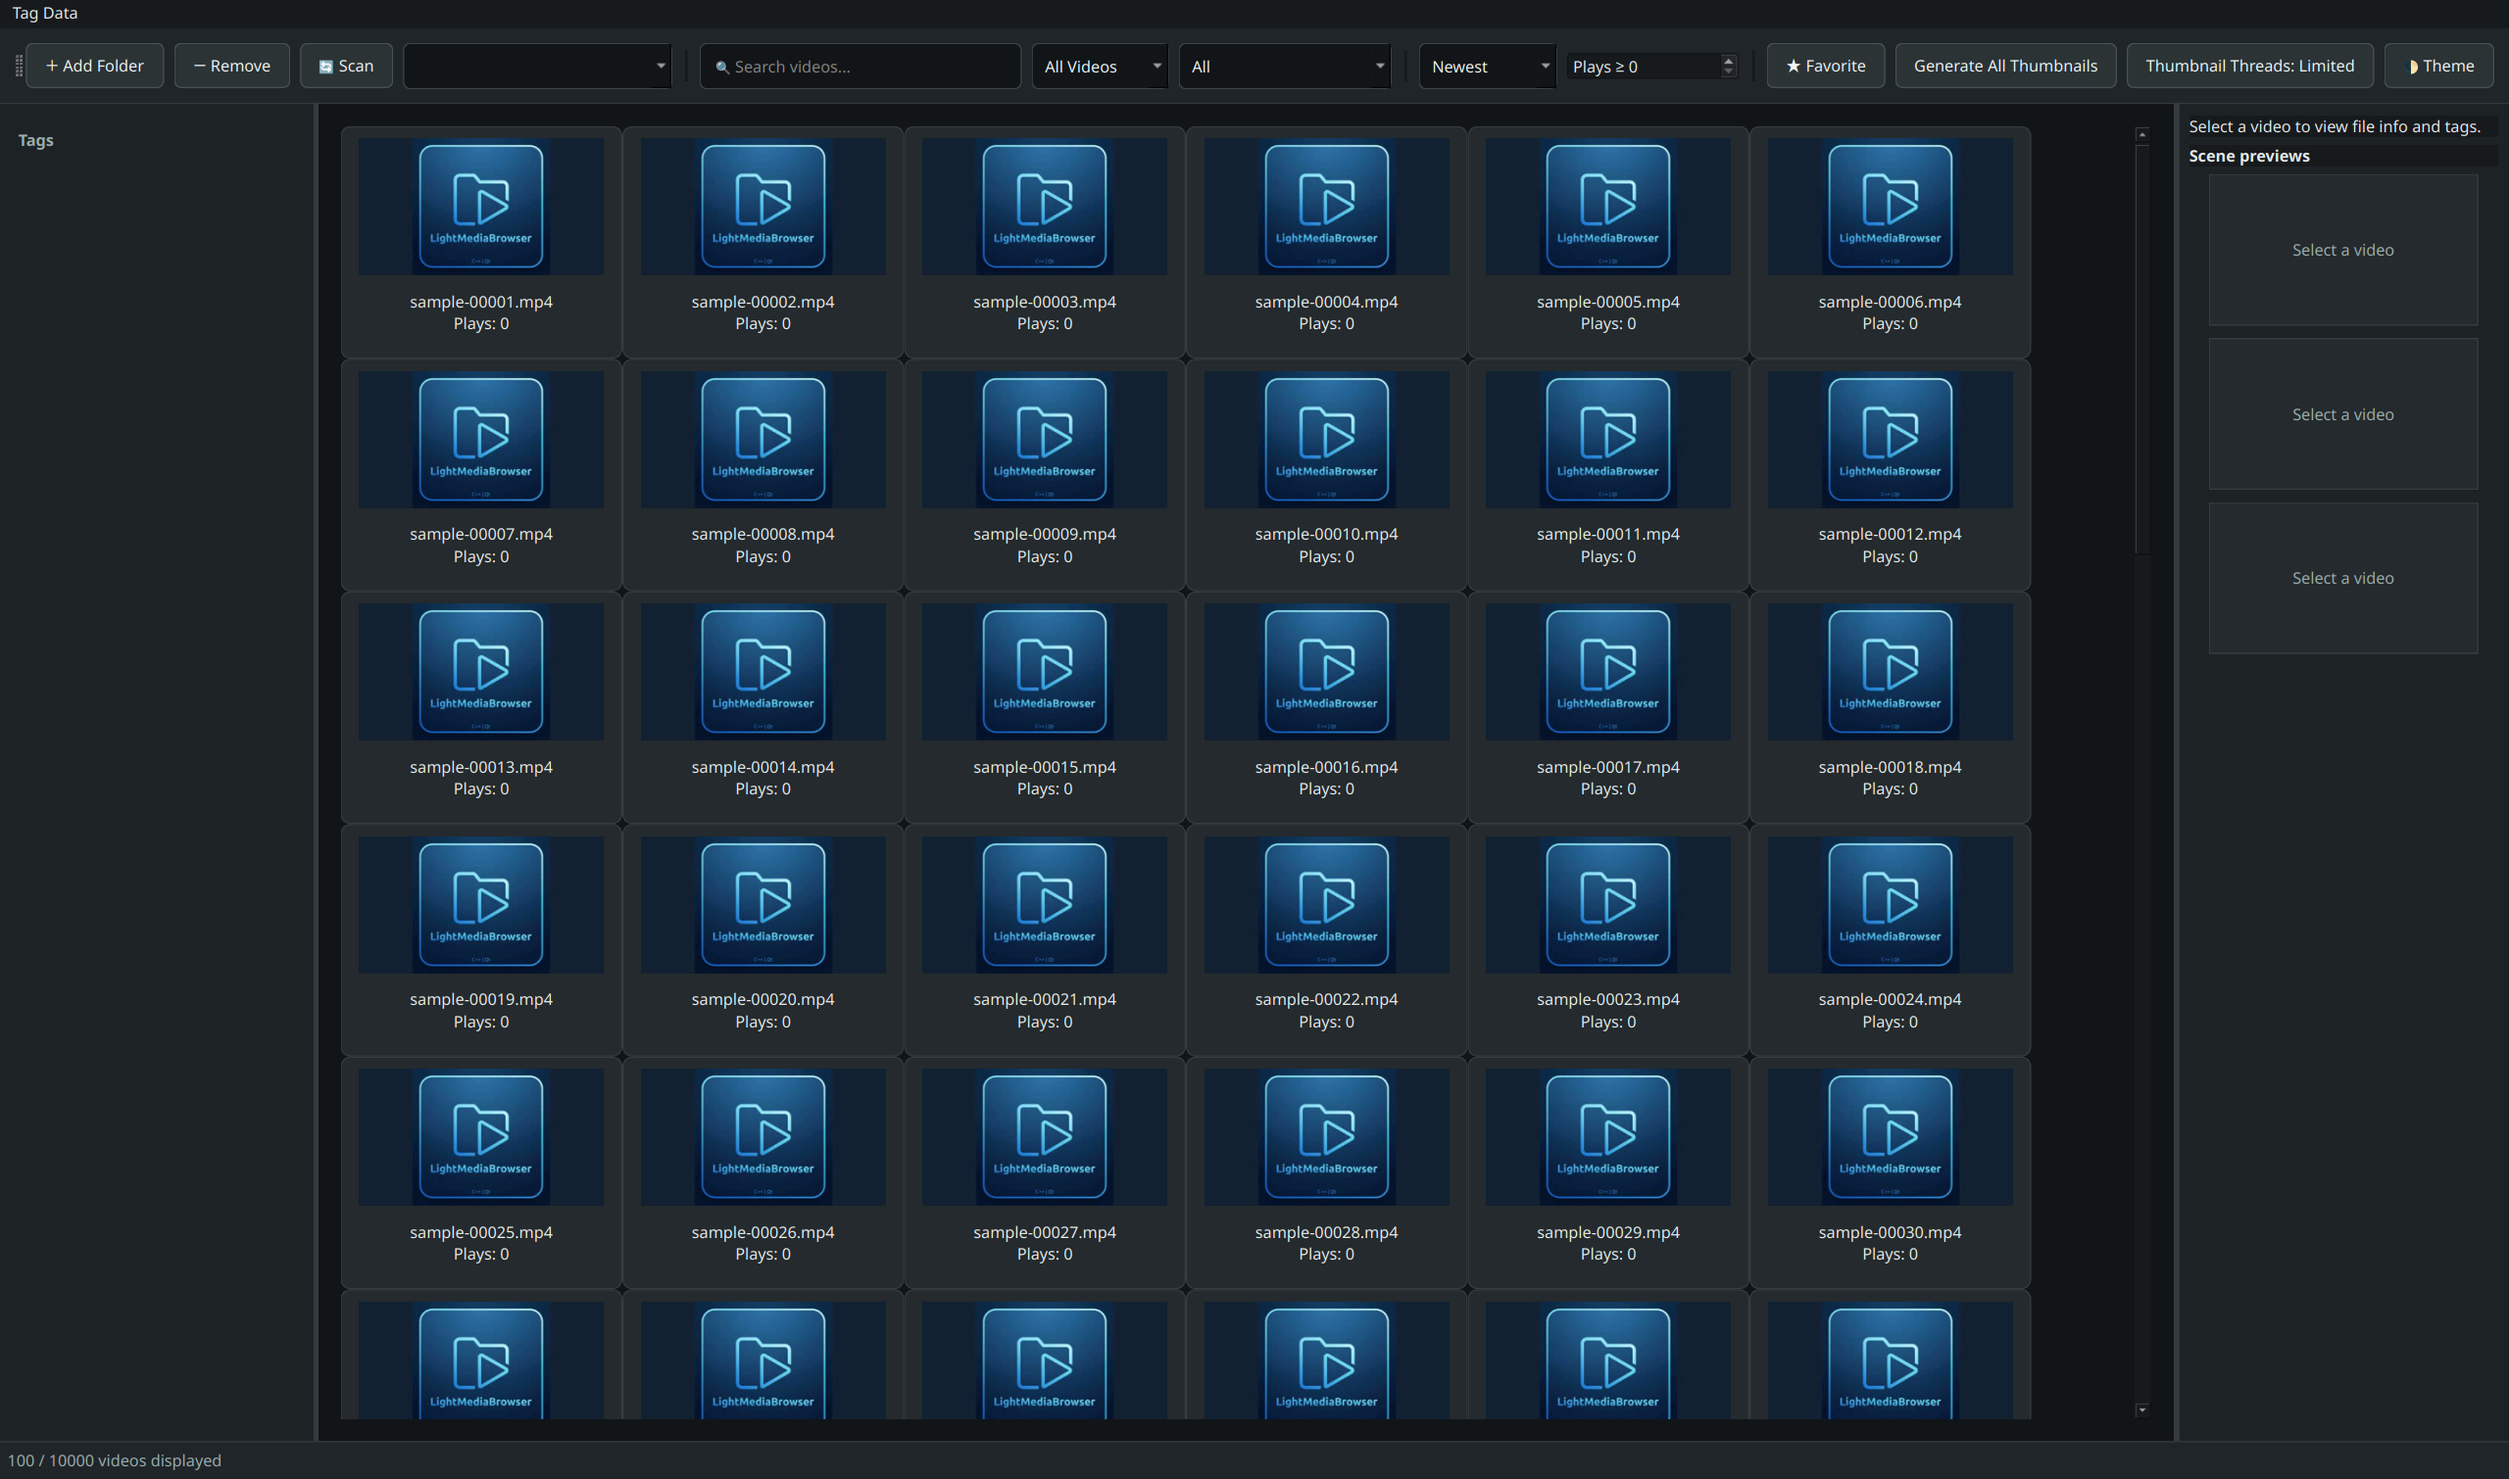
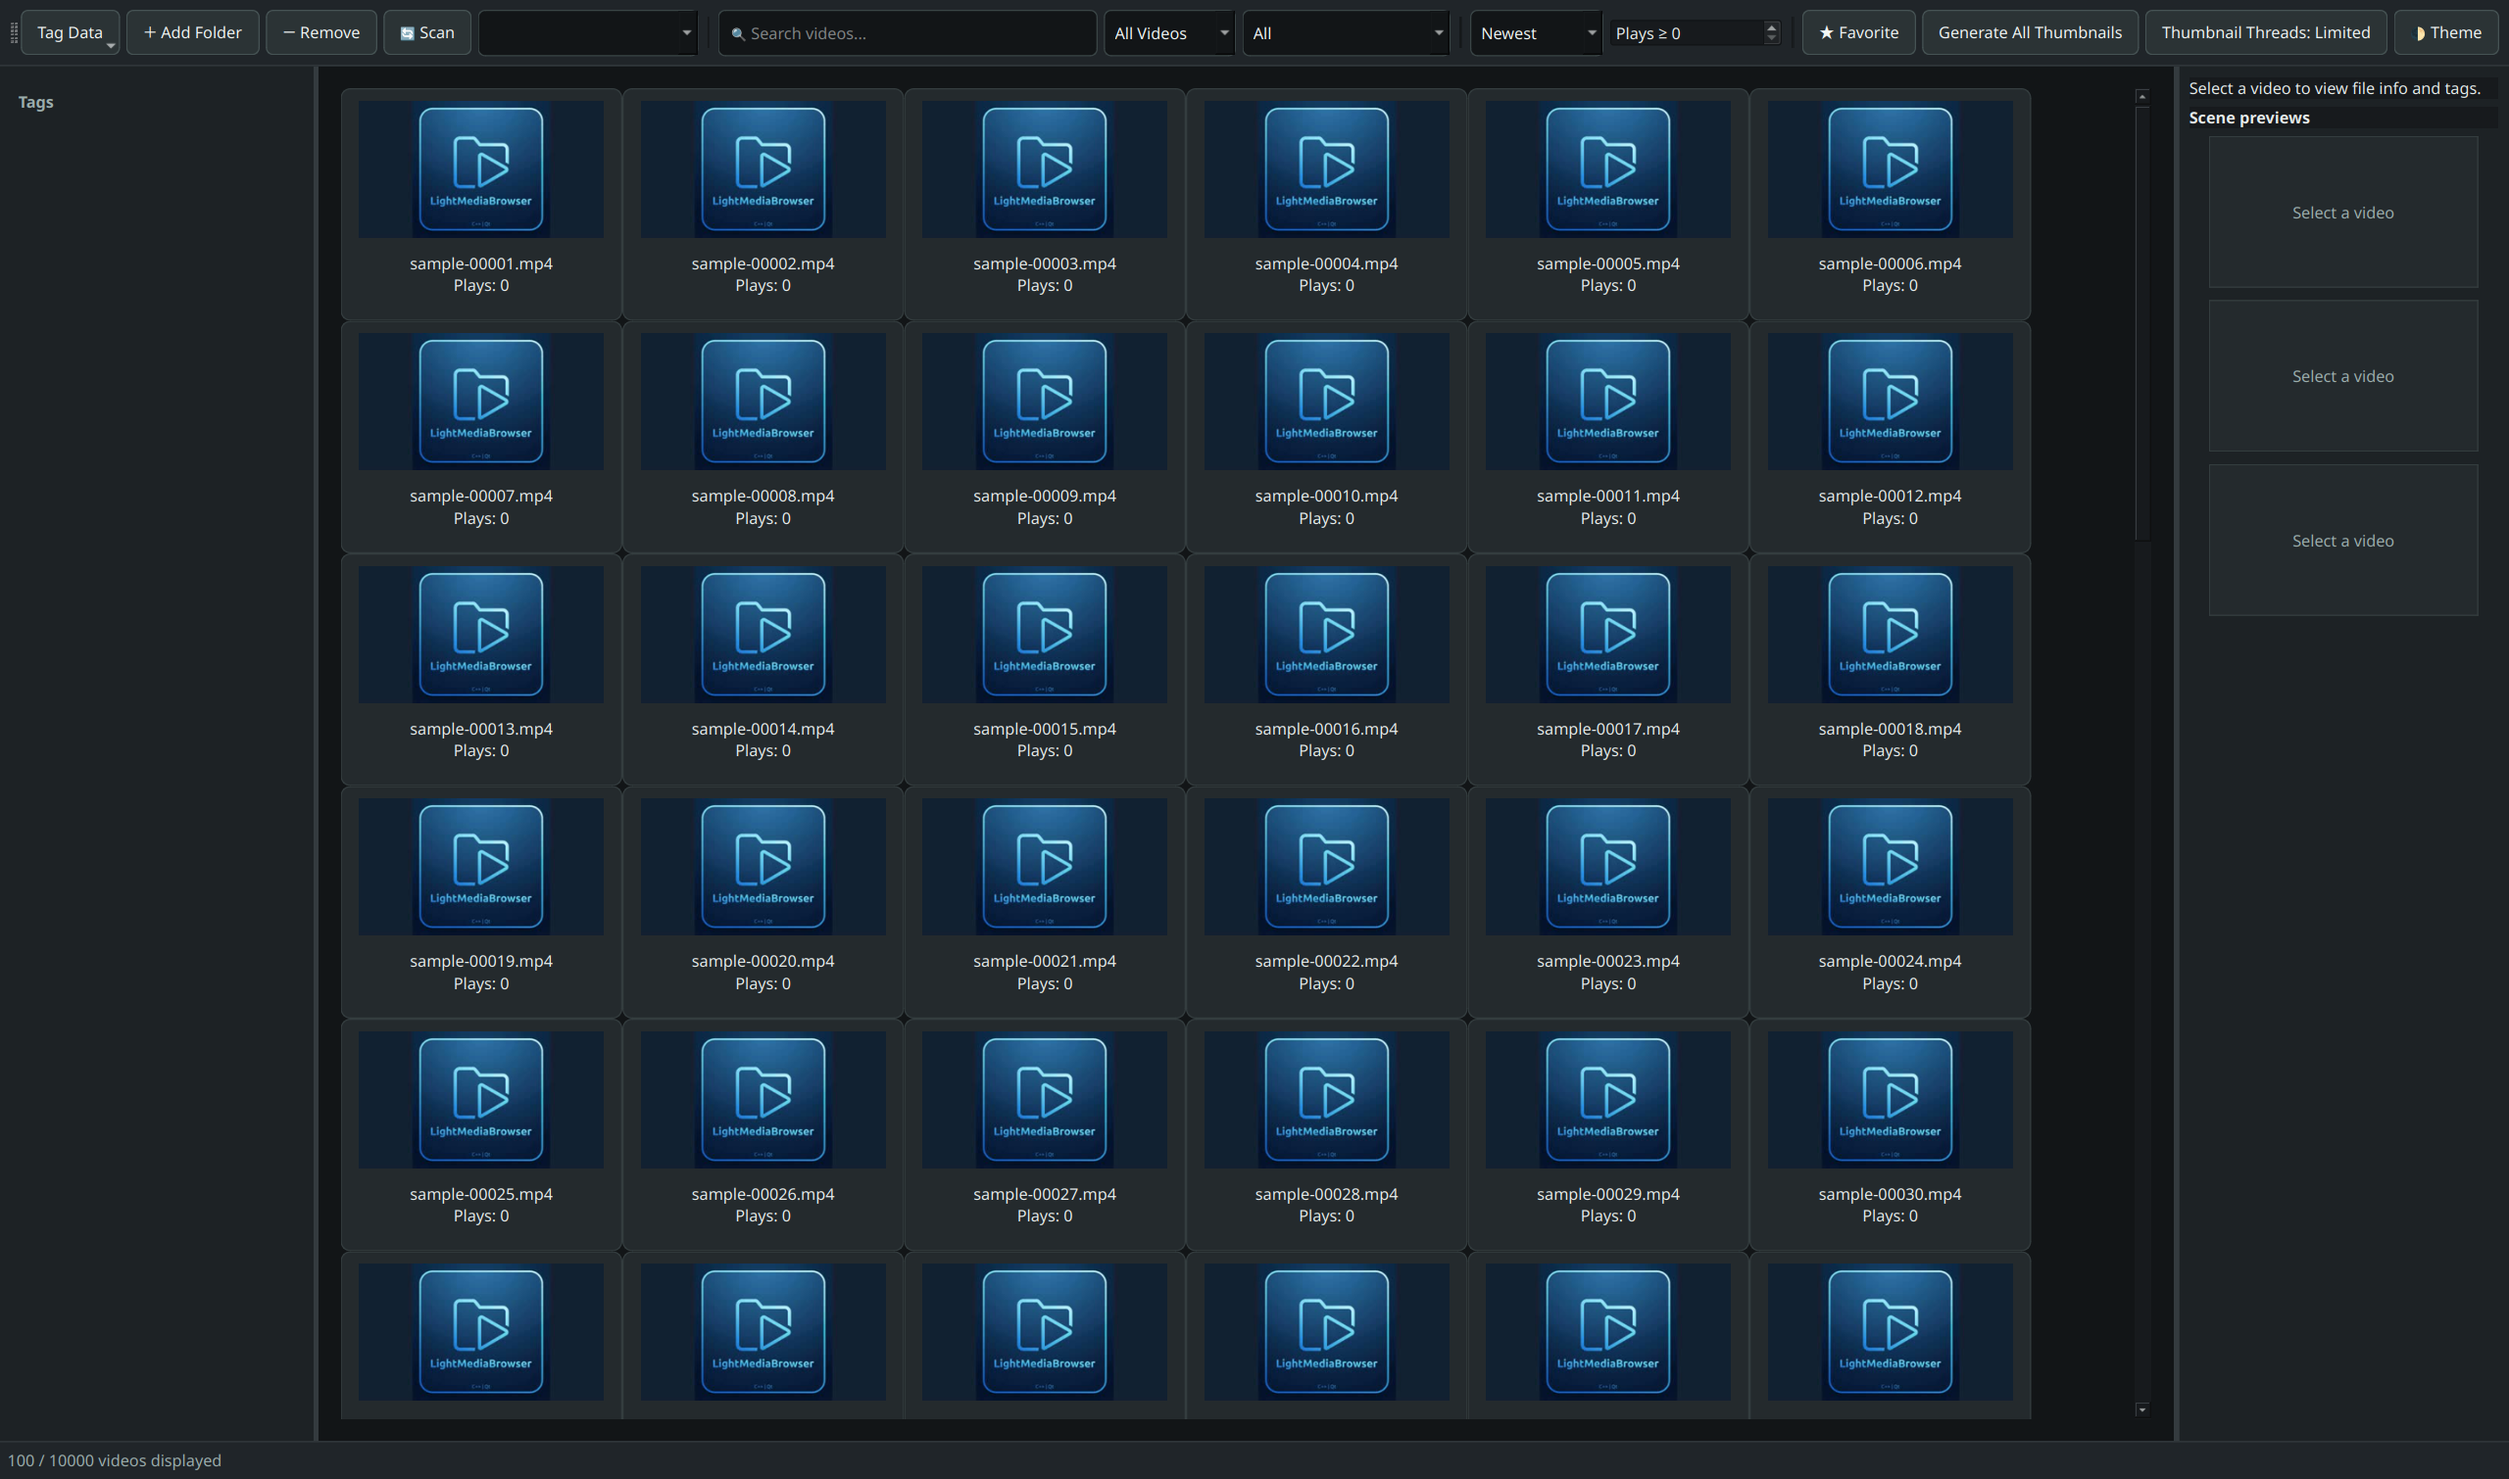
Move Tag Data into the toolbar
Bump version to 0.0.18 and update the README screenshot.

Changed region(s): [[0.0, 0.0, 1.0, 0.9649], [0.9062, 0.249, 0.9375, 0.2801], [0.5938, 0.0, 0.625, 0.0311]]

diff --git a/src/ui/MainWindow.cpp b/src/ui/MainWindow.cpp
@@ -35,6 +35,7 @@
 #include <QStatusBar>
 #include <QTimer>
 #include <QToolBar>
+#include <QToolButton>
 #include <QTreeWidget>
 #include <QVBoxLayout>
 #include <QScrollArea>
@@ -142,15 +143,15 @@ MainWindow::MainWindow(QWidget *parent) : QMainWindow(parent)
 
 void MainWindow::buildUi()
 {
-    setWindowTitle(QStringLiteral("LightMediaBrowser v0.0.17"));
+    setWindowTitle(QStringLiteral("LightMediaBrowser v0.0.18"));
     showMaximized(); // アプリ起動時にウィンドウを最大化（フルスクリーン表示）してボタンが隠れないようにする
     const QString lightStyle = QStringLiteral(R"(
         QMainWindow, QWidget { background: #f5f7f8; color: #1d2930; }
-        QToolBar { background: #ffffff; border: 0; border-bottom: 1px solid #d7e0e3; spacing: 8px; padding: 9px 12px; }
-        QToolButton { color: #1d2930; background: #ffffff; border: 1px solid #b9c8cd; border-radius: 6px; padding: 7px 10px; }
+        QToolBar { background: #ffffff; border: 0; border-bottom: 1px solid #d7e0e3; spacing: 5px; padding: 9px 8px; }
+        QToolButton { color: #1d2930; background: #ffffff; border: 1px solid #b9c8cd; border-radius: 6px; padding: 7px 8px; }
         QToolButton:hover { background: #eaf4f2; border-color: #2a9d8f; }
         QToolButton:pressed { background: #2a9d8f; border-color: #237f74; color: #ffffff; }
-        QComboBox, QLineEdit { background: #ffffff; border: 1px solid #b9c8cd; border-radius: 6px; padding: 8px 10px; color: #1d2930; selection-background-color: #b8e0d8; }
+        QComboBox, QLineEdit { background: #ffffff; border: 1px solid #b9c8cd; border-radius: 6px; padding: 8px 8px; color: #1d2930; selection-background-color: #b8e0d8; }
         QComboBox:hover, QLineEdit:focus { border-color: #2a9d8f; }
         QSplitter::handle { background: #d7e0e3; }
         QTreeWidget { background: #ffffff; border: 0; padding: 10px 7px; outline: 0; }
@@ -193,6 +194,19 @@ void MainWindow::buildUi()
     setStyleSheet(defaultDark ? lightStyle + darkStyle : lightStyle);
 
     auto *toolbar = addToolBar(QStringLiteral("Library"));
+    auto *tagDataMenu = new QMenu(this);
+    tagDataMenu->setObjectName(QStringLiteral("tagDataMenu"));
+    QAction *exportTagDataAction = tagDataMenu->addAction(QStringLiteral("Export JSON..."));
+    exportTagDataAction->setObjectName(QStringLiteral("exportTagDataAction"));
+    QAction *importTagDataAction = tagDataMenu->addAction(QStringLiteral("Import JSON..."));
+    importTagDataAction->setObjectName(QStringLiteral("importTagDataAction"));
+    auto *tagDataButton = new QToolButton(this);
+    tagDataButton->setObjectName(QStringLiteral("tagDataButton"));
+    tagDataButton->setText(QStringLiteral("Tag Data"));
+    tagDataButton->setToolTip(QStringLiteral("Import or export tag data"));
+    tagDataButton->setPopupMode(QToolButton::InstantPopup);
+    tagDataButton->setMenu(tagDataMenu);
+    toolbar->addWidget(tagDataButton);
 
     auto *addAction = toolbar->addAction(QStringLiteral("＋ Add Folder"));
     addAction->setToolTip(QStringLiteral("Add media folder"));
@@ -203,7 +217,7 @@ void MainWindow::buildUi()
 
     m_folderSelector = new QComboBox(this);
     m_folderSelector->setObjectName(QStringLiteral("folderCombo"));
-    m_folderSelector->setMinimumWidth(220);
+    m_folderSelector->setMinimumWidth(180);
     toolbar->addWidget(m_folderSelector);
 
     toolbar->addSeparator();
@@ -212,7 +226,7 @@ void MainWindow::buildUi()
     m_search->setObjectName(QStringLiteral("searchLineEdit"));
     m_search->setPlaceholderText(QStringLiteral("🔍 Search videos..."));
     m_search->setClearButtonEnabled(true);
-    m_search->setMinimumWidth(200);
+    m_search->setMinimumWidth(180);
     toolbar->addWidget(m_search);
 
     m_libraryFilter = new QComboBox(this);
@@ -269,13 +283,6 @@ void MainWindow::buildUi()
     themeAction->setCheckable(true);
     themeAction->setChecked(defaultDark); // 起動時の設定状態に合わせる
     themeAction->setToolTip(QStringLiteral("Switch between Dark and Light theme"));
-
-    QMenu *tagDataMenu = menuBar()->addMenu(QStringLiteral("Tag Data"));
-    tagDataMenu->setObjectName(QStringLiteral("tagDataMenu"));
-    QAction *exportTagDataAction = tagDataMenu->addAction(QStringLiteral("Export JSON..."));
-    exportTagDataAction->setObjectName(QStringLiteral("exportTagDataAction"));
-    QAction *importTagDataAction = tagDataMenu->addAction(QStringLiteral("Import JSON..."));
-    importTagDataAction->setObjectName(QStringLiteral("importTagDataAction"));
 
     connect(addAction, &QAction::triggered, this, &MainWindow::addFolder);
     connect(removeAction, &QAction::triggered, this, &MainWindow::removeFolder);

diff --git a/tests/MainWindowSmokeTest.cpp b/tests/MainWindowSmokeTest.cpp
@@ -5,8 +5,11 @@
 #include <QComboBox>
 #include <QLineEdit>
 #include <QListWidget>
+#include <QMenu>
+#include <QMenuBar>
 #include <QSpinBox>
 #include <QStandardPaths>
+#include <QToolButton>
 #include <QTreeWidget>
 #include <QtTest>
 
@@ -18,6 +21,7 @@ private slots:
     void initTestCase();
     void startupAndFilterControlsAreWired();
     void tagDataImportAndExportActionsAreAvailable();
+    void tagDataMenuIsAvailableFromSingleToolbarButton();
 };
 
 void MainWindowSmokeTest::initTestCase()
@@ -74,6 +78,18 @@ void MainWindowSmokeTest::tagDataImportAndExportActionsAreAvailable()
     QAction *importAction = window.findChild<QAction *>(QStringLiteral("importTagDataAction"));
     QVERIFY(exportAction);
     QVERIFY(importAction);
+}
+
+void MainWindowSmokeTest::tagDataMenuIsAvailableFromSingleToolbarButton()
+{
+    MainWindow window;
+    auto *tagDataButton = window.findChild<QToolButton *>(QStringLiteral("tagDataButton"));
+
+    QVERIFY(tagDataButton);
+    QCOMPARE(tagDataButton->popupMode(), QToolButton::InstantPopup);
+    QVERIFY(tagDataButton->menu());
+    QCOMPARE(tagDataButton->menu()->actions().size(), 2);
+    QVERIFY(window.menuBar()->actions().isEmpty());
 }
 
 QTEST_MAIN(MainWindowSmokeTest)

diff --git a/README.md b/README.md
@@ -10,7 +10,7 @@ It is designed specifically for **video management** — scanning, browsing, sea
 
 **It is not a video player.** Play your files with the external player you prefer, such as VLC, mpv, or MPC-HC/BE.
 
-> **Status: 0.0.17**
+> **Status: 0.0.18**
 >
 > This release is under active development. The core workflow is usable, but features and internal architecture may change.
 
@@ -97,7 +97,7 @@ A matching file size or filename does not confirm that video contents are identi
 * Assign tags to videos
 * Use tags and notes to organize large collections
 * Mark videos as favorites
-* Export and import tag categories, video tag assignments, and notes as JSON from the **Tag Data** menu
+* Export and import tag categories, video tag assignments, and notes as JSON from the **Tag Data** toolbar button menu
 
 Imports merge tag definitions and update notes and tag assignments only for videos whose file paths match exactly. Unmatched videos are skipped. Export files can contain local file paths and notes; the default `LightMediaBrowser-tag-data*.json` filenames are ignored by Git.
 
@@ -169,7 +169,7 @@ After a complete scan of an available registered folder, records and thumbnails 
 
 ## Project Status
 
-**Current version: 0.0.17**
+**Current version: 0.0.18**
 
 LightMediaBrowser is in early development.
 
